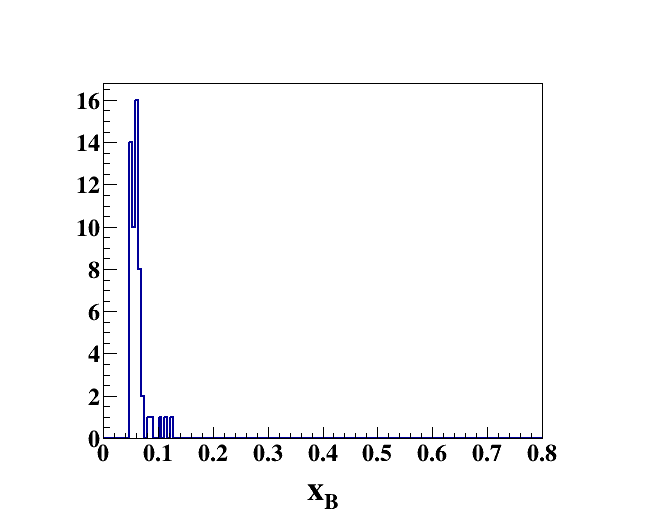
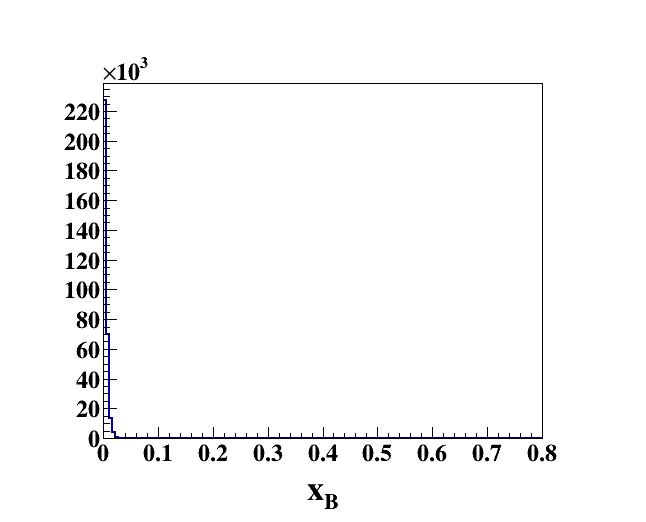
push

diff --git a/analysis_dvcs_4He_t.C b/analysis_dvcs_4He_t.C
@@ -62,7 +62,7 @@ void analysis_dvcs_4He_t::Loop()
       const int n_xB = 3;
       const int n_t = 7;
     
-      double xB_lims[4] = {0.05, 0.17, 0.23, 0.5};
+      double xB_lims[4] = {0.0, 0.17, 0.23, 0.5};
       double t_lims[n_t+1] = {0.05, 0.064, 0.075, 0.086, 0.10,  0.125,  0.17, 0.95};
 
   // 20 days at 1.5e34
@@ -86,8 +86,8 @@ void analysis_dvcs_4He_t::Loop()
          hh_Q2[i] = new TH1D(Form("hh_Q2[%d]",i),"", 150, 0, 50.0);
 
          h_Q2_tt_Coh[i]  = new TH2D(Form("h_Q2_tt_Coh[%d]",i),"",150, 0.9, 50, 150, 0.0, 1);
-         h_Q2_xB_Coh[i]  = new TH2D(Form("h_Q2_xB_Coh[%d]",i),"",150, 0.05, 0.5, 150, 0.9, 50);
-         h_tt_xB_Coh[i]  = new TH2D(Form("h_tt_xB_Coh[%d]",i)," ",150, 0.045, 1, 150, 0.0, 0.65);
+         h_Q2_xB_Coh[i]  = new TH2D(Form("h_Q2_xB_Coh[%d]",i),"",150, 0.0, 0.5, 150, 0.9, 50);
+         h_tt_xB_Coh[i]  = new TH2D(Form("h_tt_xB_Coh[%d]",i)," ",150, 0.0, 1, 150, 0.0, 0.65);
          for(int j=0; j<n_xB; j++)
          {
             for(int k=0; k<n_t; k++)
